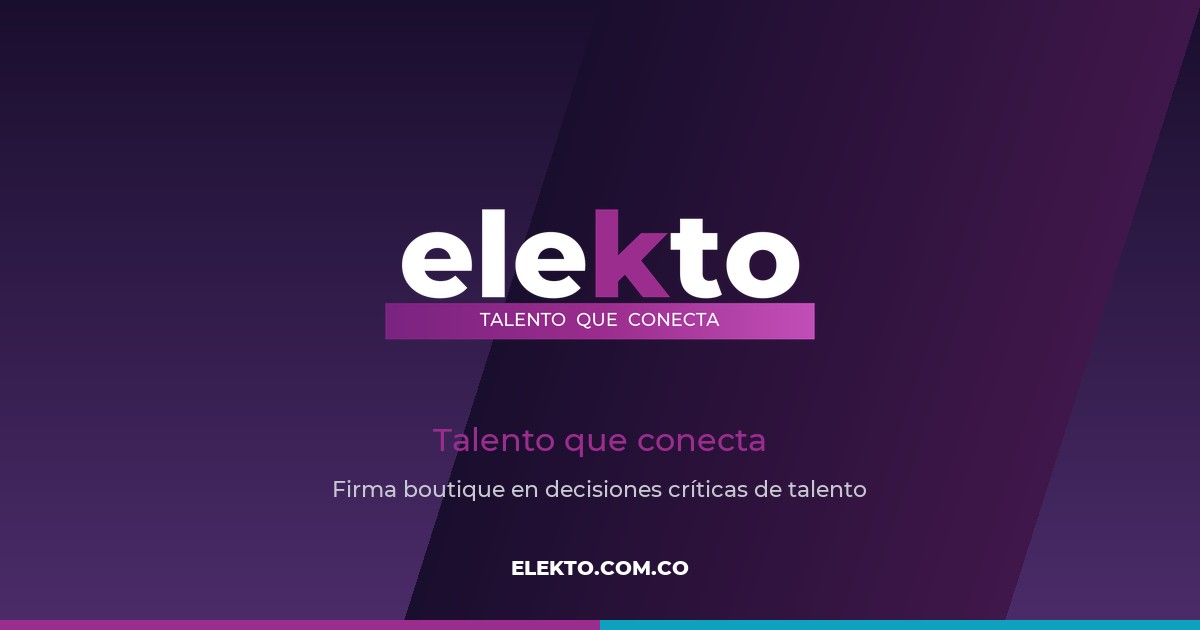
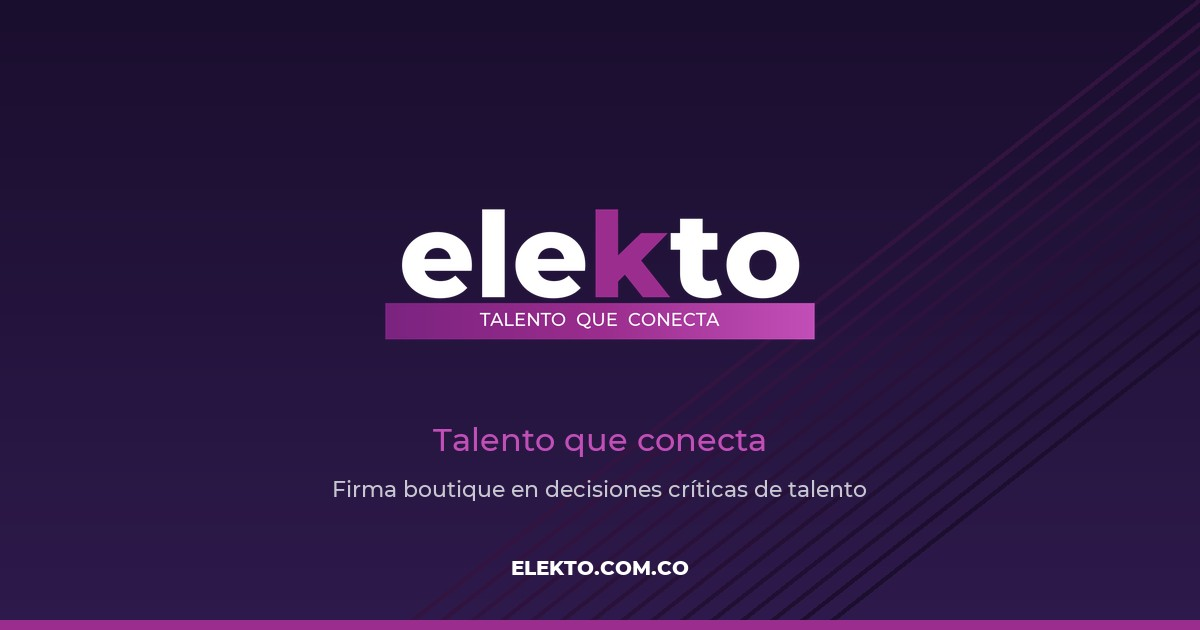
Remove client-cyan from Elekto-branded surfaces
The cyan #10A0C0 was Nacional de Seguros' brand color from a client
proposal. It accidentally leaked into Elekto-only assets:

- Open Graph image (og-image.jpg): bottom band now solid Elekto purple
- Advisory service modal hero gradient: cyan replaced with Elekto's
  light purple gradient (#7B2380) to keep the modal visually distinct
  from Select without using a non-brand color

Marketing pieces (carnets, pendon, QR card) also regenerated with
solid purple bottom bands instead of bicolor purple/cyan.

Changed region(s): [[0.0, 0.0, 1.0, 1.0], [0.3392, 0.6635, 0.6475, 0.7238], [0.7092, 0.9048, 0.74, 0.9349]]

diff --git a/index.html b/index.html
@@ -338,7 +338,7 @@
     .svc-modal-hero{position:relative;background-size:cover;background-position:center;min-height:340px;display:flex;flex-direction:column;justify-content:flex-end;padding:2.5rem 2.2rem;color:#fff;overflow:hidden}
     .svc-modal-hero::before{content:'';position:absolute;inset:0;background:linear-gradient(135deg,rgba(26,14,46,.85),rgba(155,45,142,.75))}
     .svc-modal-hero[data-service="assess"]::before{background:linear-gradient(135deg,rgba(26,14,46,.85),rgba(123,35,128,.8))}
-    .svc-modal-hero[data-service="advisory"]::before{background:linear-gradient(135deg,rgba(26,14,46,.85),rgba(16,160,192,.7))}
+    .svc-modal-hero[data-service="advisory"]::before{background:linear-gradient(135deg,rgba(26,14,46,.85),rgba(123,35,128,.75))}
     .svc-modal-hero>*{position:relative;z-index:1}
     .svc-modal-tag{font-size:.62rem;letter-spacing:3px;font-weight:700;text-transform:uppercase;color:#fff;opacity:.7;margin-bottom:.8rem;display:inline-block;padding:4px 11px;border:1px solid rgba(255,255,255,.3);width:max-content;border-radius:20px}
     .svc-modal-title{font-family:'Playfair Display',serif;font-size:clamp(1.8rem,2.4vw,2.6rem);font-weight:800;line-height:1.1;margin-bottom:1.2rem;letter-spacing:-.5px}